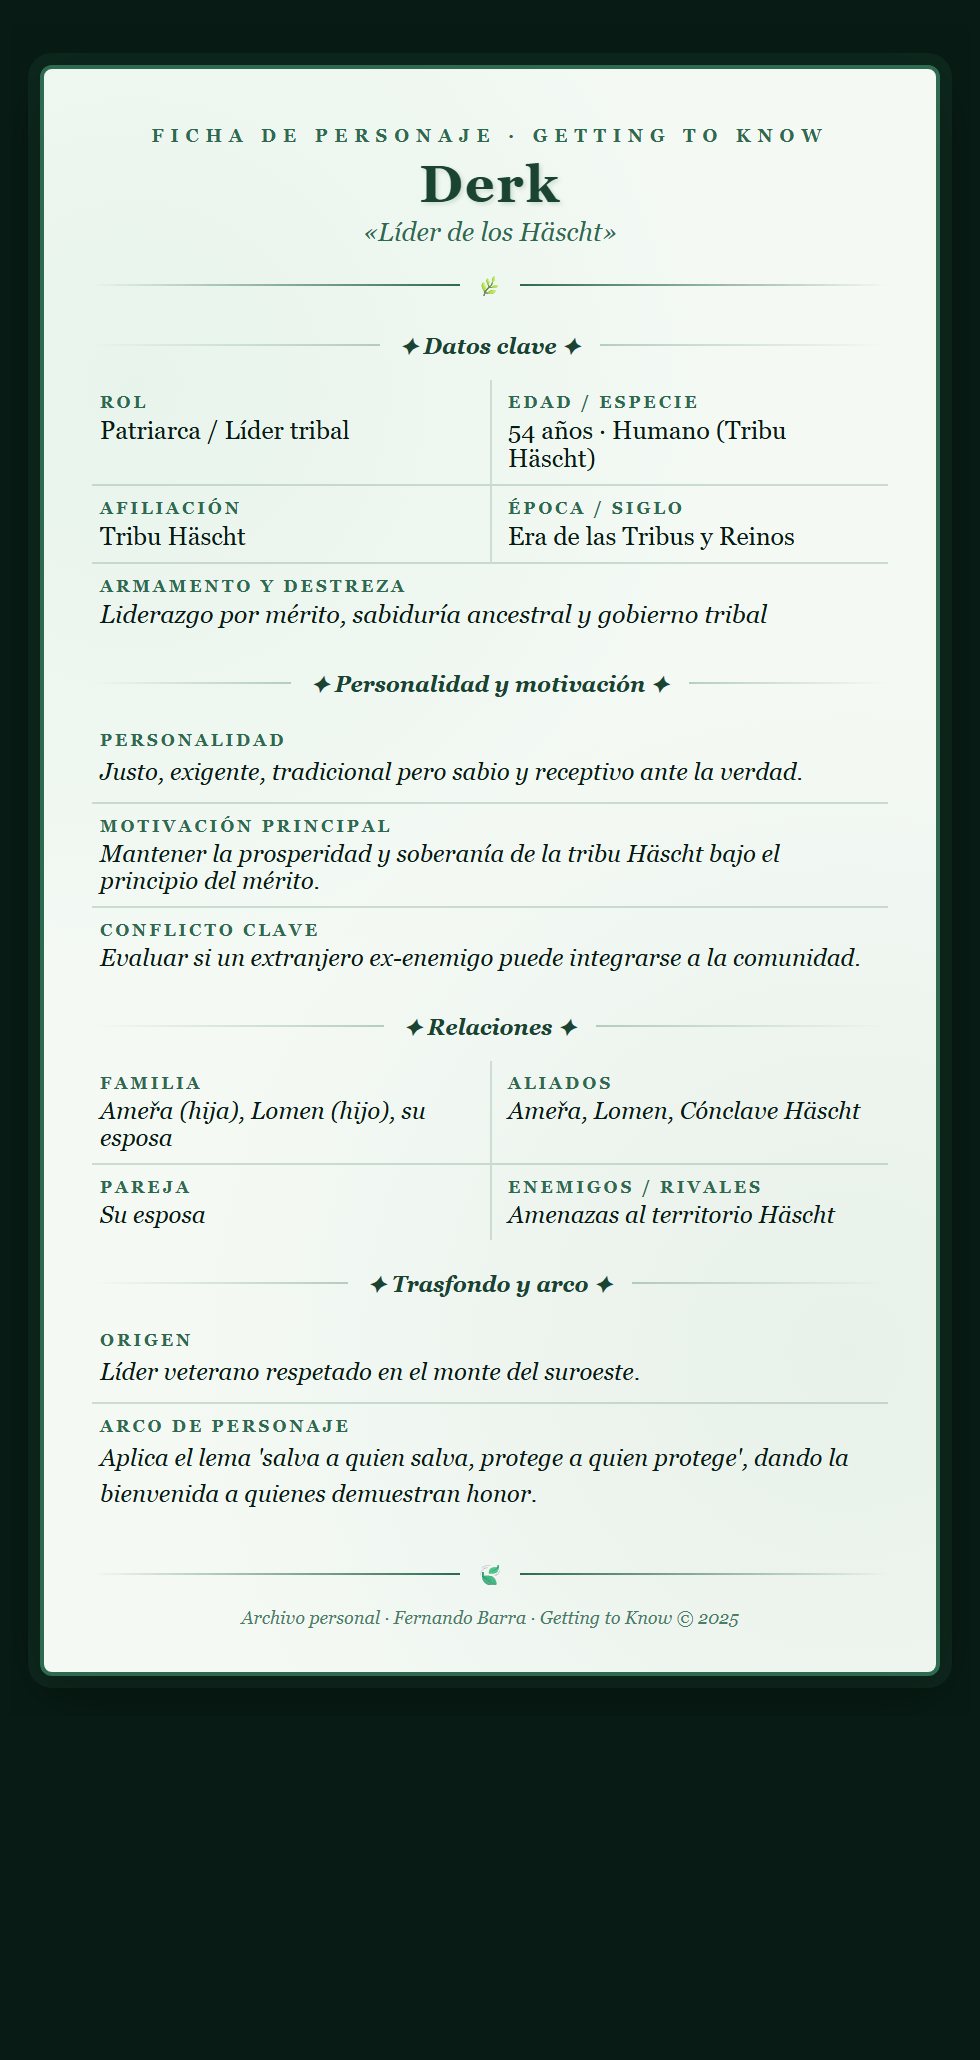
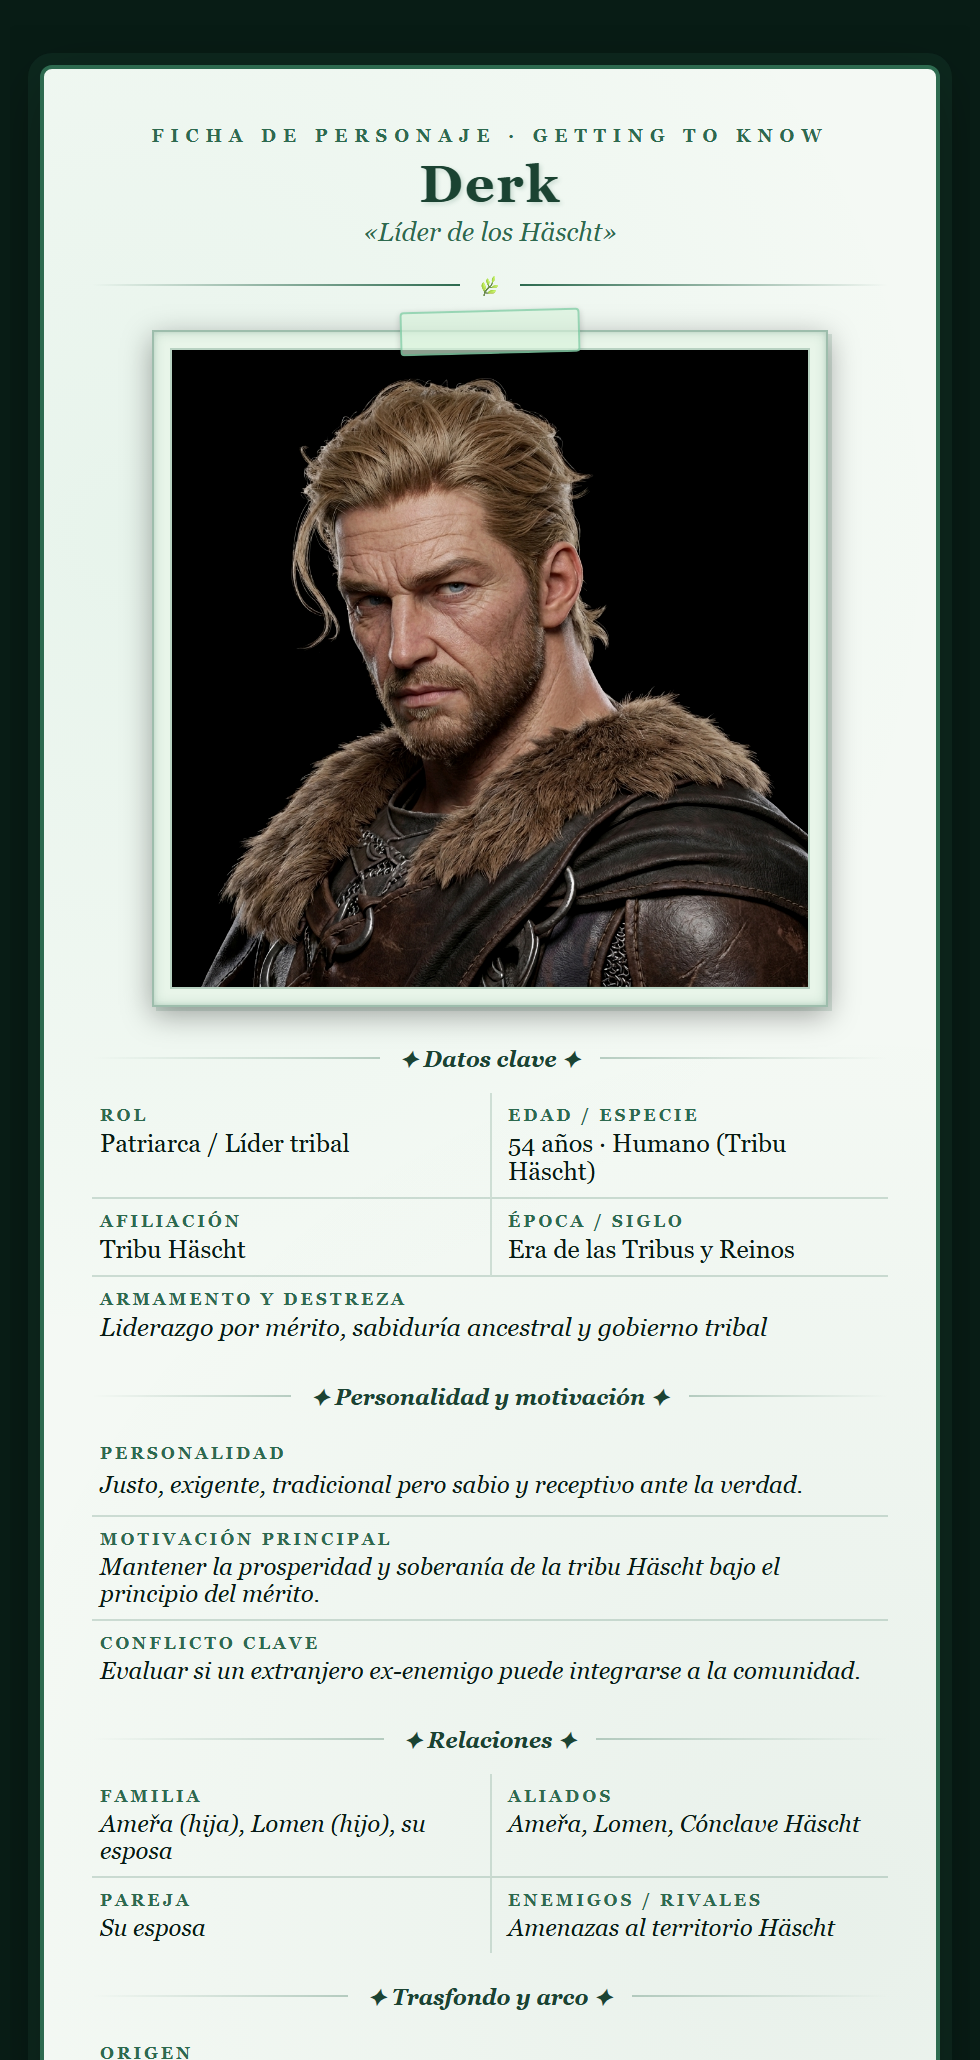
Agregar imagenes oficiales y marcos ilustrados en fichas de Getting to Know

diff --git a/personajes/ficha-amera.html b/personajes/ficha-amera.html
@@ -73,6 +73,15 @@
             <div style="flex:1; height:1px; background:linear-gradient(to left, transparent, #2d6a4f);"></div>
         </div>
 
+        
+        <!-- IMAGEN CON MARCO Y CINTA -->
+        <div style="position:relative; width:85%; margin:0 auto 18px auto; z-index:1;">
+            <div style="position:absolute; top:-10px; left:50%; transform:translateX(-50%) rotate(-1.5deg); width:90px; height:22px; background:rgba(216,243,220,0.65); border:1px solid rgba(82,183,136,0.5); box-shadow:0 1px 3px rgba(0,0,0,0.18); z-index:3; border-radius:2px;"></div>
+            <div style="padding:8px; background:#e8f5e9; border:1px solid rgba(45,106,79,0.4); box-shadow:inset 0 0 6px rgba(45,106,79,0.2), inset 0 0 2px rgba(45,106,79,0.15), 0 4px 14px rgba(0,0,0,0.35), 2px 2px 0 rgba(45,106,79,0.15); position:relative;">
+                <img src="../imagenes/amera.png" alt="Ameřa" style="width:100%; display:block; filter:contrast(1.03) brightness(0.98); border:1px solid rgba(45,106,79,0.25);">
+            </div>
+        </div>
+
         <!-- SECCIÓN 1: DATOS CLAVE -->
         <div style="display:flex; align-items:center; gap:10px; margin:0 0 10px 0;">
             <div style="flex:1; height:1px; background:linear-gradient(to right, transparent, rgba(45,106,79,0.3));"></div>

diff --git a/personajes/ficha-hesis.html b/personajes/ficha-hesis.html
@@ -73,6 +73,15 @@
             <div style="flex:1; height:1px; background:linear-gradient(to left, transparent, #2d6a4f);"></div>
         </div>
 
+        
+        <!-- IMAGEN CON MARCO Y CINTA -->
+        <div style="position:relative; width:85%; margin:0 auto 18px auto; z-index:1;">
+            <div style="position:absolute; top:-10px; left:50%; transform:translateX(-50%) rotate(-1.5deg); width:90px; height:22px; background:rgba(216,243,220,0.65); border:1px solid rgba(82,183,136,0.5); box-shadow:0 1px 3px rgba(0,0,0,0.18); z-index:3; border-radius:2px;"></div>
+            <div style="padding:8px; background:#e8f5e9; border:1px solid rgba(45,106,79,0.4); box-shadow:inset 0 0 6px rgba(45,106,79,0.2), inset 0 0 2px rgba(45,106,79,0.15), 0 4px 14px rgba(0,0,0,0.35), 2px 2px 0 rgba(45,106,79,0.15); position:relative;">
+                <img src="../imagenes/hesis.jpg" alt="Hesis" style="width:100%; display:block; filter:contrast(1.03) brightness(0.98); border:1px solid rgba(45,106,79,0.25);">
+            </div>
+        </div>
+
         <!-- SECCIÓN 1: DATOS CLAVE -->
         <div style="display:flex; align-items:center; gap:10px; margin:0 0 10px 0;">
             <div style="flex:1; height:1px; background:linear-gradient(to right, transparent, rgba(45,106,79,0.3));"></div>

diff --git a/personajes/ficha-lomen.html b/personajes/ficha-lomen.html
@@ -73,6 +73,15 @@
             <div style="flex:1; height:1px; background:linear-gradient(to left, transparent, #2d6a4f);"></div>
         </div>
 
+        
+        <!-- IMAGEN CON MARCO Y CINTA -->
+        <div style="position:relative; width:85%; margin:0 auto 18px auto; z-index:1;">
+            <div style="position:absolute; top:-10px; left:50%; transform:translateX(-50%) rotate(-1.5deg); width:90px; height:22px; background:rgba(216,243,220,0.65); border:1px solid rgba(82,183,136,0.5); box-shadow:0 1px 3px rgba(0,0,0,0.18); z-index:3; border-radius:2px;"></div>
+            <div style="padding:8px; background:#e8f5e9; border:1px solid rgba(45,106,79,0.4); box-shadow:inset 0 0 6px rgba(45,106,79,0.2), inset 0 0 2px rgba(45,106,79,0.15), 0 4px 14px rgba(0,0,0,0.35), 2px 2px 0 rgba(45,106,79,0.15); position:relative;">
+                <img src="../imagenes/lomen.jpg" alt="Lomen" style="width:100%; display:block; filter:contrast(1.03) brightness(0.98); border:1px solid rgba(45,106,79,0.25);">
+            </div>
+        </div>
+
         <!-- SECCIÓN 1: DATOS CLAVE -->
         <div style="display:flex; align-items:center; gap:10px; margin:0 0 10px 0;">
             <div style="flex:1; height:1px; background:linear-gradient(to right, transparent, rgba(45,106,79,0.3));"></div>

diff --git a/personajes/ficha-derk.html b/personajes/ficha-derk.html
@@ -73,6 +73,15 @@
             <div style="flex:1; height:1px; background:linear-gradient(to left, transparent, #2d6a4f);"></div>
         </div>
 
+        
+        <!-- IMAGEN CON MARCO Y CINTA -->
+        <div style="position:relative; width:85%; margin:0 auto 18px auto; z-index:1;">
+            <div style="position:absolute; top:-10px; left:50%; transform:translateX(-50%) rotate(-1.5deg); width:90px; height:22px; background:rgba(216,243,220,0.65); border:1px solid rgba(82,183,136,0.5); box-shadow:0 1px 3px rgba(0,0,0,0.18); z-index:3; border-radius:2px;"></div>
+            <div style="padding:8px; background:#e8f5e9; border:1px solid rgba(45,106,79,0.4); box-shadow:inset 0 0 6px rgba(45,106,79,0.2), inset 0 0 2px rgba(45,106,79,0.15), 0 4px 14px rgba(0,0,0,0.35), 2px 2px 0 rgba(45,106,79,0.15); position:relative;">
+                <img src="../imagenes/derk.jpg" alt="Derk" style="width:100%; display:block; filter:contrast(1.03) brightness(0.98); border:1px solid rgba(45,106,79,0.25);">
+            </div>
+        </div>
+
         <!-- SECCIÓN 1: DATOS CLAVE -->
         <div style="display:flex; align-items:center; gap:10px; margin:0 0 10px 0;">
             <div style="flex:1; height:1px; background:linear-gradient(to right, transparent, rgba(45,106,79,0.3));"></div>

diff --git a/personajes/ficha-heya.html b/personajes/ficha-heya.html
@@ -73,6 +73,15 @@
             <div style="flex:1; height:1px; background:linear-gradient(to left, transparent, #2d6a4f);"></div>
         </div>
 
+        
+        <!-- IMAGEN CON MARCO Y CINTA -->
+        <div style="position:relative; width:85%; margin:0 auto 18px auto; z-index:1;">
+            <div style="position:absolute; top:-10px; left:50%; transform:translateX(-50%) rotate(-1.5deg); width:90px; height:22px; background:rgba(216,243,220,0.65); border:1px solid rgba(82,183,136,0.5); box-shadow:0 1px 3px rgba(0,0,0,0.18); z-index:3; border-radius:2px;"></div>
+            <div style="padding:8px; background:#e8f5e9; border:1px solid rgba(45,106,79,0.4); box-shadow:inset 0 0 6px rgba(45,106,79,0.2), inset 0 0 2px rgba(45,106,79,0.15), 0 4px 14px rgba(0,0,0,0.35), 2px 2px 0 rgba(45,106,79,0.15); position:relative;">
+                <img src="../imagenes/heya.jpg" alt="Heya" style="width:100%; display:block; filter:contrast(1.03) brightness(0.98); border:1px solid rgba(45,106,79,0.25);">
+            </div>
+        </div>
+
         <!-- SECCIÓN 1: DATOS CLAVE -->
         <div style="display:flex; align-items:center; gap:10px; margin:0 0 10px 0;">
             <div style="flex:1; height:1px; background:linear-gradient(to right, transparent, rgba(45,106,79,0.3));"></div>
